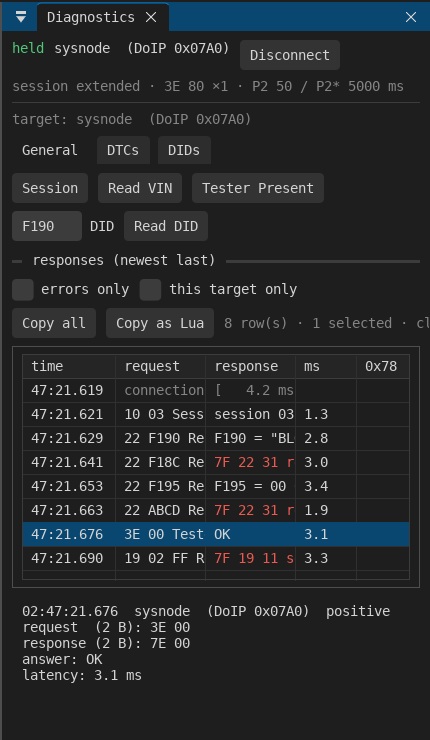
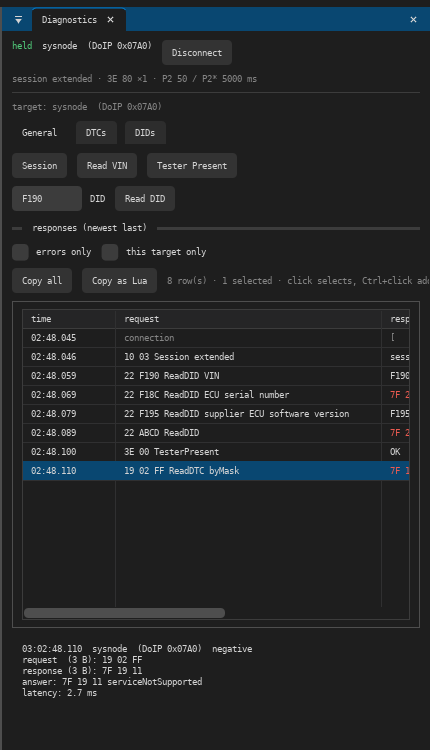
Diagnostics log table: scrolls sideways in a narrow panel; review fixes
- vgui.table_begin_wide: a table whose stretch columns fill a wide region and scroll sideways
  in a narrow one, so request and answer are not squeezed to nothing beside the fixed columns.
- A positive answer the helper then refused is an error entry (annotate with failed), and its
  line is not dropped as a restatement.
- Copy as Lua: a seed request without its key is replayed uncompared; a key without its seed
  is a comment; a 29-bit target on 11-bit-sized ids is left as comments.
- The table's strings are built when its copy is taken, not every frame.
- A refused press is filed under the target pressed; a selection a filter hides is kept.
- An empty request is reported not sent, not with the previous request's timing.
- The snapshot's per-probe notes are gone: each probe is its own entry.
- session_lua_test opens its server channel before spawning the server.

diff --git a/libs/vgui/vgui_glue.cpp b/libs/vgui/vgui_glue.cpp
@@ -948,6 +948,15 @@ int  vgui_table_begin(const char* id, int cols) {
     return ImGui::BeginTable(id, cols,
         ImGuiTableFlags_Borders|ImGuiTableFlags_ScrollY|ImGuiTableFlags_Resizable) ? 1 : 0;
 }
+// vgui_table_begin_wide: vgui_table_begin that scrolls sideways once the region is narrower than
+// `min_w` — its stretch columns fill the region when it is wider, and keep `min_w` between them
+// when it is not, rather than being squeezed to nothing beside the fixed ones.
+int  vgui_table_begin_wide(const char* id, int cols, float min_w) {
+    float avail = ImGui::GetContentRegionAvail().x;
+    return ImGui::BeginTable(id, cols,
+        ImGuiTableFlags_Borders|ImGuiTableFlags_ScrollY|ImGuiTableFlags_ScrollX|ImGuiTableFlags_Resizable,
+        ImVec2(0, 0), avail > min_w ? avail : min_w) ? 1 : 0;
+}
 // vgui_table_begin_flat: a table sized to its rows, with NO scrolling of its own -- the window
 // or child around it scrolls. The plain vgui_table_begin cannot do that: its ScrollY flag with
 // no outer height makes ImGui size the table to everything LEFT in the window (CalcItemSize

diff --git a/libs/vgui/vgui.h b/libs/vgui/vgui.h
@@ -155,6 +155,7 @@ int  vgui_key_enter_pressed(void);
 float vgui_line_height(void);
 float vgui_frame_height(void);
 int  vgui_table_begin_flat(const char* id, int cols);
+int  vgui_table_begin_wide(const char* id, int cols, float min_w);
 void vgui_table_cell_dim(const char* s);
 int  vgui_input_text_enter(const char* label, char* buf, int bufsize);
 int  vgui_window_focused(void);
